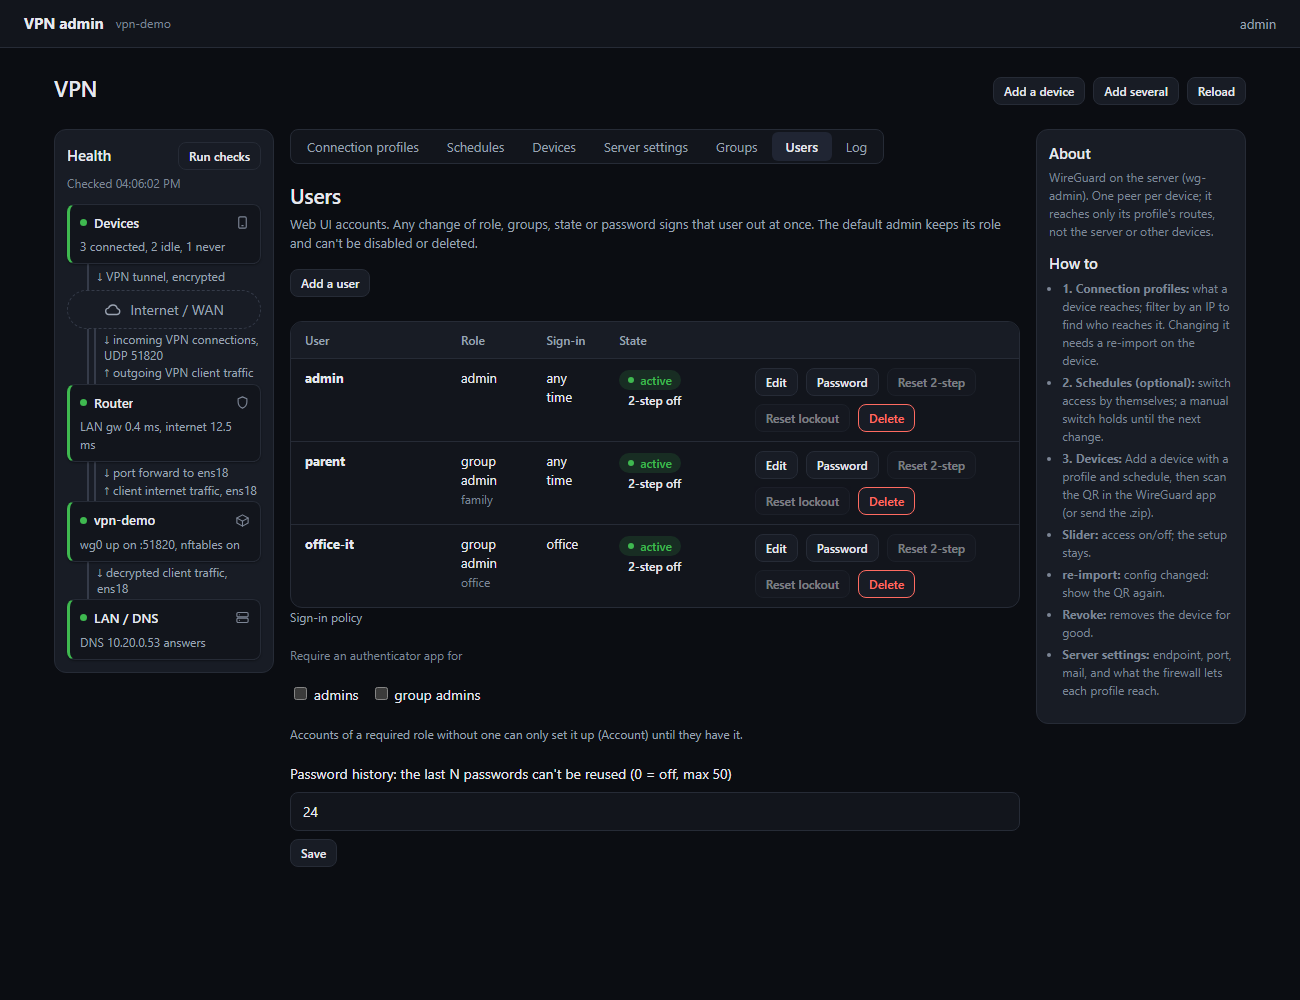
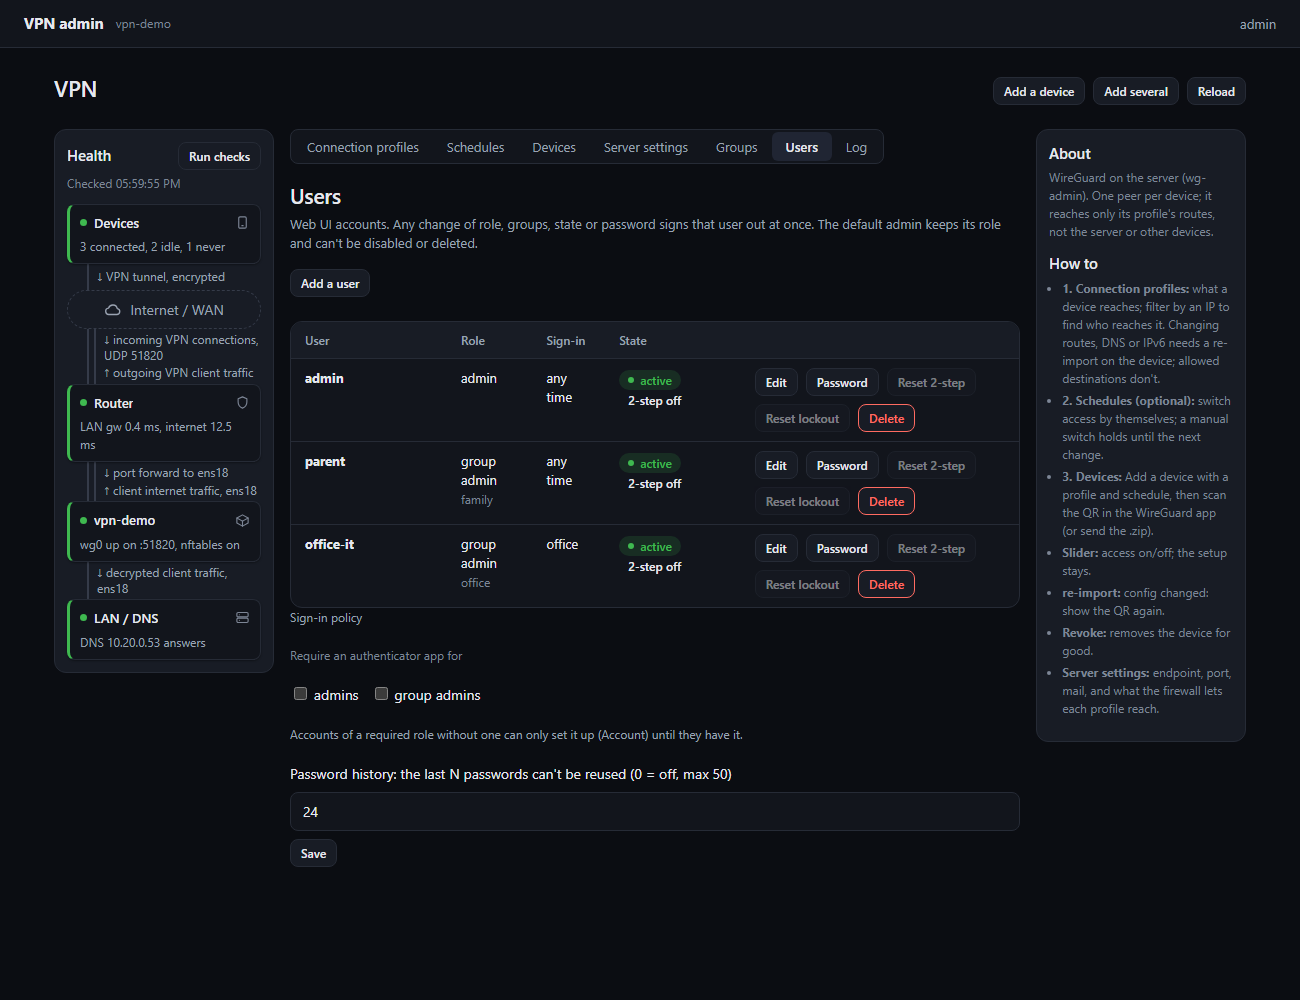
2026-11-01: profile changes may need a re-imported profile on the client; bulk edit shows which devices
- Only devices whose client config changes (routes, DNS or IPv6) are marked "re-import". Allowed destinations live
  on the server: changing them, or switching between profiles that differ only there, needs no re-import.
- Bulk edit: the Profile row shows how many ticked devices the chosen profile will mark ("re-import 2 of 3"); the
  confirm lists them, or says no re-import is needed.

Source: onprem-claude-agent bf2c2ab

Changed region(s): [[0.8, 0.341, 0.9538, 0.713], [0.0923, 0.155, 0.1231, 0.186]]

diff --git a/wgadmin/static/ui.js b/wgadmin/static/ui.js
@@ -359,7 +359,7 @@ const MARKUP = `
       or other devices.</p>
     <h2>How to</h2>
     <ul class="meta">
-      <li><strong>1. Connection profiles:</strong> what a device reaches; filter by an IP to find who reaches it. Changing it needs a re-import on the device.</li>
+      <li><strong>1. Connection profiles:</strong> what a device reaches; filter by an IP to find who reaches it. Changing routes, DNS or IPv6 needs a re-import on the device; allowed destinations don't.</li>
       <li><strong>2. Schedules (optional):</strong> switch access by themselves; a manual switch holds until the next change.</li>
       <li><strong>3. Devices:</strong> Add a device with a profile and schedule, then scan the QR in the WireGuard app (or send the .zip).</li>
       <li><strong>Slider:</strong> access on/off; the setup stays.</li>
@@ -883,7 +883,14 @@ function renderPeers() {
 // ones it refused.
 const BULK_SETTINGS = [["profile", "Profile"], ["group", "Group"], ["schedule", "Schedule"], ["enabled", "Enabled"],
   ["tags", "Tags (replace)"], ["tags-add", "Tags (add)"], ["tags-remove", "Tags (remove)"], ["email", "Owner email"]];
-const BULK_REIMPORT = new Set(["profile"]);  // settings that rewrite the device's config: it must import it again
+const BULK_REIMPORT = new Set(["profile"]);  // settings that may rewrite the device's config: it may need a re-import
+// A profile switch changes the client config only when routes, DNS or IPv6 differ (vpn-peer marks only those
+// devices); allowed destinations live on the server. -> the ticked devices that will need a re-import.
+const clientSide = (name) => { const p = PROFILES.find((x) => x.name === name); return p ? [p.routes, p.dns, p.ipv6].join("|") : name; };
+const reimportNames = (names, to) => names.filter((n) => {
+  const p = (LAST?.peers || []).find((x) => x.name === n);
+  return !p || clientSide(p.profile) !== clientSide(to);
+});
 function bulkValues(setting) {
   if (setting === "profile") return PROFILES.map((p) => [p.name, p.name]);
   if (setting === "group") return [...(isAdmin() ? [["", "no group"]] : []), ...GROUPS.map((g) => [g.name, g.name])];
@@ -897,6 +904,12 @@ function bulkCount() {
   if (!btn) return;
   btn.textContent = `Apply ${n || ""} ${n === 1 ? "setting" : "settings"} to ${PICKED.size} device${PICKED.size === 1 ? "" : "s"}`.replace("  ", " ");
   btn.disabled = !PICKED.size || !n;
+  const ri = $("vpnbri");
+  if (ri) {
+    const k = reimportNames([...PICKED], BULK.val.profile).length;
+    ri.textContent = PICKED.size ? `re-import ${k} of ${PICKED.size}` : "may need re-import";
+    ri.className = "pill " + (PICKED.size && !k ? "ok" : "warn");
+  }
 }
 // The panel under the filter row: one row per setting (tick + value); editing a value ticks its row.
 function renderBulk() {
@@ -920,9 +933,9 @@ function renderBulk() {
     v.disabled = !cb.checked;
     v.setAttribute("aria-label", `New ${label.toLowerCase()}`);
     cb.onchange = () => { BULK.on[k] = cb.checked; v.disabled = !cb.checked; if (cb.checked) v.focus(); bulkCount(); };
-    v[pairs ? "onchange" : "oninput"] = () => { BULK.val[k] = v.value; };
+    v[pairs ? "onchange" : "oninput"] = () => { BULK.val[k] = v.value; bulkCount(); };
     lbl.append(cb, ` ${label}`);
-    if (BULK_REIMPORT.has(k)) lbl.append(" *", el("span", "pill warn", "re-import"));
+    if (BULK_REIMPORT.has(k)) { const ri = el("span", "pill warn"); ri.id = "vpnbri"; lbl.append(" *", ri); }
     row.append(lbl, v);
     rows.appendChild(row);
   }
@@ -936,15 +949,16 @@ function renderBulk() {
   foot.append(apply, " ", clear, " ", close);
   box.replaceChildren(el("h2", "", "Bulk edit the selected devices"),
     el("p", "hint", "Tick the settings to change and set their values; the rest stay as they are. All of them go to every ticked device in one go (Enabled last)."),
-    rows, el("p", "hint", "* re-import: the device must import its config again (QR or .conf); the device list marks it."), foot);
+    rows, el("p", "hint", "* May need a re-imported profile on the client: only devices whose routes, DNS or IPv6 change import their config again (QR or .conf); the device list marks them."), foot);
   bulkCount();
 }
 async function applyBulk() {
   const names = [...PICKED], changes = bulkChanges();
   const label = (k) => BULK_SETTINGS.find(([x]) => x === k)[1];
   const off = changes.some((c) => c.setting === "enabled" && c.value === "off");
+  const prof = changes.find((c) => c.setting === "profile"), ri = prof ? reimportNames(names, prof.value) : [];
   const cuts = (off ? "\nThey lose VPN access at once." : "") +
-    (changes.some((c) => BULK_REIMPORT.has(c.setting)) ? "\nEach must import its new config afterwards (re-import)." : "");
+    (ri.length ? `\nMust import the new config afterwards (re-import): ${ri.join(", ")}.` : prof ? "\nNo re-import needed." : "");
   const what = changes.map((c) => `  ${label(c.setting)} = ${c.value || "none"}`).join("\n");
   if (!confirm(`Set on ${names.length} device(s) (${names.join(", ")}):\n${what}${cuts}`)) return;
   try {

diff --git a/README.md b/README.md
@@ -40,7 +40,8 @@ Made-up demo data (no real names, addresses or keys).
 2. **Server settings:** check the endpoint (the public name or address and port the devices dial) and the network
    mode (NAT or Route, see below).
 3. **Connection profiles:** keep the default `split` and `full`, or add your own (routes, DNS, allowed hosts/ports).
-   Changing a profile marks its devices "re-import": they need the new QR or config.
+   Changing a profile's routes, DNS or IPv6 marks its devices "re-import": they need the new QR or config.
+   Allowed destinations live on the server: no re-import.
 4. **Devices > Add a device:** name (e.g. `anna-phone`), profile, optional group, schedule, tags and owner email.
    - Phone: install the WireGuard app, tap **QR**, scan it in the app.
    - Computer: **.conf** (or the `.zip` with instructions), import it in the WireGuard client.
@@ -50,7 +51,8 @@ Made-up demo data (no real names, addresses or keys).
      the list: 10/25/50/100/All per page), **Bulk edit**, tick the settings to change
      (profile, group, schedule, enabled, tags, owner email) and set their values, **Apply**: all of them go to every
      ticked device in one go (enabled last). Each device gets the same checks as a single edit; refused ones are
-     listed. Settings marked * re-import need the device to import its config again.
+     listed. Settings marked * may need a re-imported profile on the client: the panel and the confirm show
+     which ticked devices (only those whose routes, DNS or IPv6 change).
 6. **Schedules (optional):** add one (e.g. `mon-fri 07:00-18:00`), pick it on the device. A manual switch holds until
    the schedule's next change.
 7. **Others manage their own devices (optional):** Groups > add a group with its profiles and schedules, then

diff --git a/CHANGES.md b/CHANGES.md
@@ -2,13 +2,20 @@
 
 Newest first. `install.sh` applies an update in place; settings, keys and devices stay.
 
-## 2026-11-01: block rules in a profile, profile switch without re-import
+## 2026-11-01: profile changes may need a re-imported profile on the client; bulk edit shows which devices
+
+- Only devices whose client config changes (routes, DNS or IPv6) are marked "re-import". Allowed destinations live
+  on the server: changing them, or switching between profiles that differ only there, needs no re-import.
+- Bulk edit: the Profile row shows how many ticked devices the chosen profile will mark ("re-import 2 of 3"); the
+  confirm lists them, or says no re-import is needed.
+
+## 2026-11-01: block rules in a profile; fewer re-imports on a profile switch
 
 - Allowed destinations are checked in order, first match wins; a line starting with `!` blocks. Example: the
   portal's ports, then `!192.168.0.0/16`, then `0.0.0.0/0` = the portal plus the internet, no other LAN host.
   The Firewall table shows such lines as "blocked ...".
-- Switching a device between profiles with the same routes, DNS and IPv6 changes only the server's firewall: the
-  device is no longer asked to re-import its configuration.
+- A profile switch may need a re-imported profile on the client: only when the routes, DNS or IPv6 differ. Between
+  profiles with the same ones only the server's firewall changes.
 - README screenshots retaken from the current version; new ones for bulk edit, the Log tab and Server settings >
   Logging.
 
